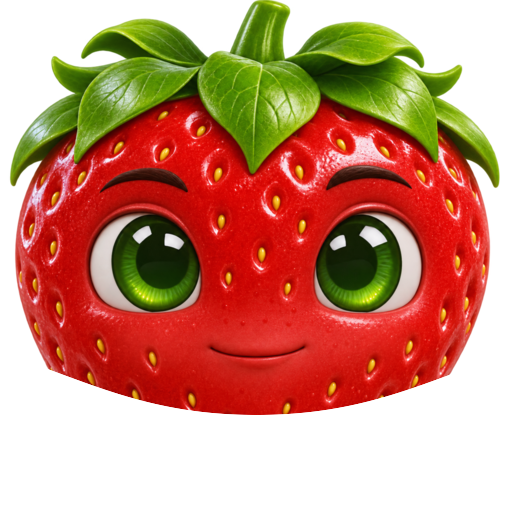
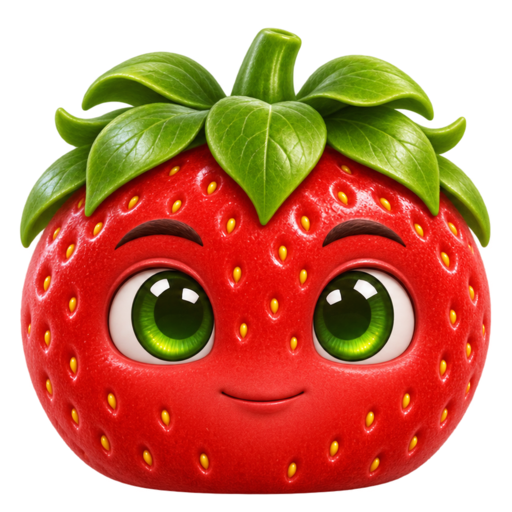
Sync latest HydroSen theme updates

diff --git a/lib/features/thermos/illustrated_artwork.dart b/lib/features/thermos/illustrated_artwork.dart
@@ -80,7 +80,7 @@ class IllustratedArtwork {
       'ayi': (421, 421),
       'boga': (478, 480),
       'bulut': (427, 426),
-      'cilek': (414, 414),
+      'cilek': (496, 496),
       'civciv': (500, 512),
       'dondurma': (512, 512),
       'ejderha': (460, 475),
@@ -92,10 +92,9 @@ class IllustratedArtwork {
       'kaktus': (442, 443),
       'kamp': (408, 408),
       'kaplan': (477, 474),
-      'kardanadam': (405, 405),
+      'kardanadam': (505, 504),
       'karpuz': (484, 484),
       'kirpi': (422, 422),
-      'klasik': (400, 400),
       'kopek': (423, 423),
       'koala': (472, 466),
       'korsan': (486, 491),
@@ -142,7 +141,6 @@ class IllustratedArtwork {
       'astronot',
       'kardanadam',
       'kopek',
-      'klasik',
       'cilek',
       'tekboynuz',
       'kamp',
